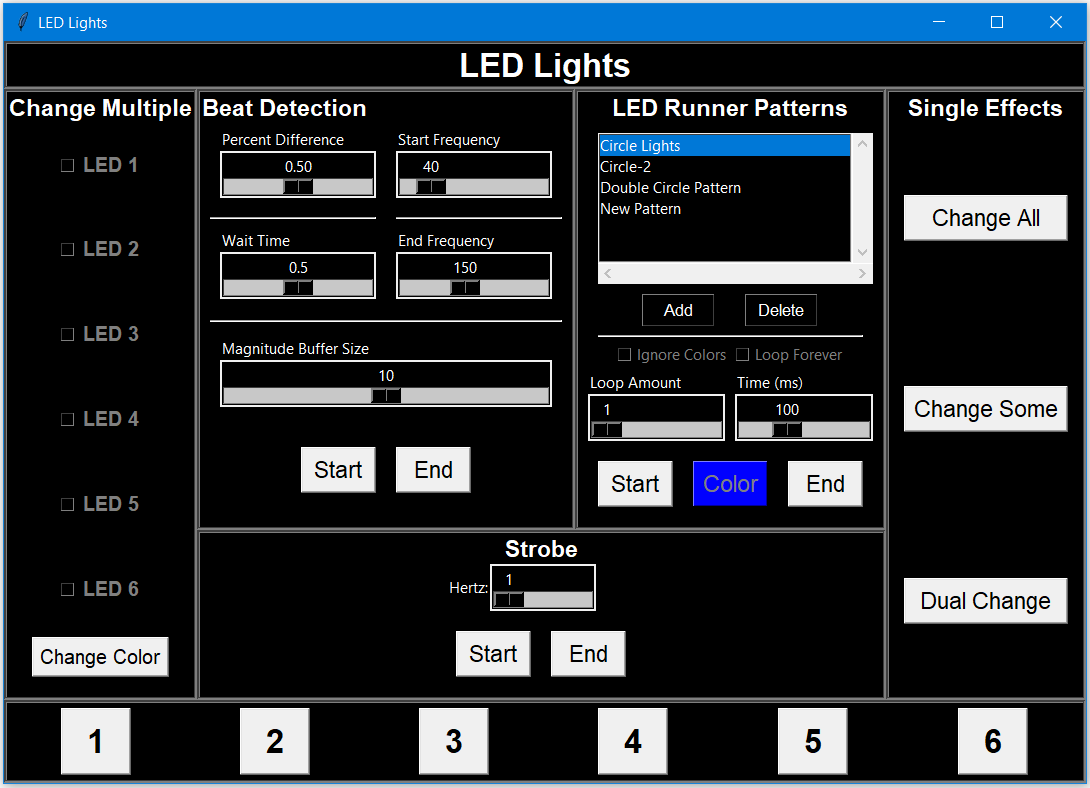
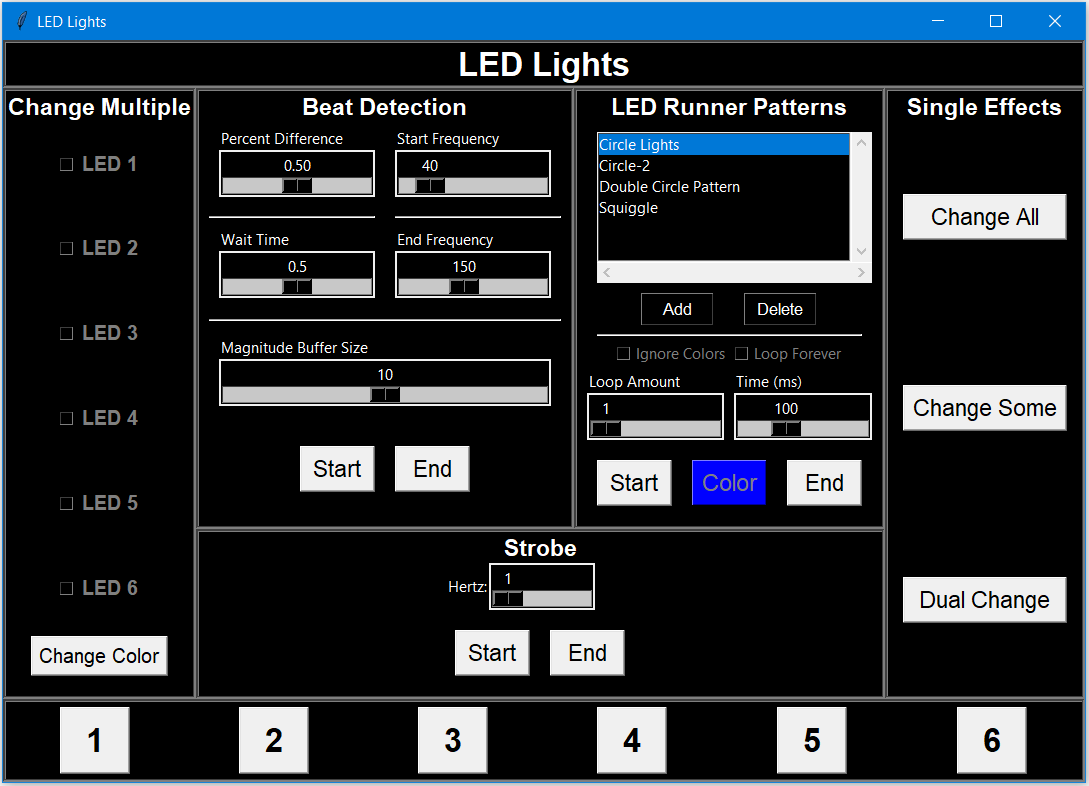
Updated readme and image

diff --git a/LEDControl/gui/mainWindow.py b/LEDControl/gui/mainWindow.py
@@ -124,7 +124,7 @@ class BeatDetect(tk.Frame):
         self.keep_amount = 10
         self.percent = .5
         self.wait_time = .5
-        ttk.Label(self, text='Beat Detection', style='Subtitle.TLabel').pack(fill=X)
+        ttk.Label(self, text='Beat Detection', style='Subtitle.TLabel').pack()
         # ------Setting up sliders---------
         top_group = ttk.Frame(self)
         top_group.pack(expand=YES, fill=BOTH)

diff --git a/README.md b/README.md
@@ -3,6 +3,8 @@ Code for controlling multiple RGB LED lights with an arduino and WS2803 chip
 
 A python GUI in LEDControl is used to send commands to an Arduino which simply fowards it along to the WS2803. It would be possible to control directly from the computer but some annoying connector would need to be made. The Arduino code is in ArduinoLEDs. The arduino pins 5 and 6 are used for clock and data respectivly. The arduino and WS2803 should be powered by the same external power supply.
 
+Included features are manually changing the color of one or more lights, having the lights change automatically due to beat detection in music, using a predefined pattern to light the LEDs in a specific order and time period, strobing the lights using their current colors, or selecting predefined effects. The predefined effects randomly change all lights to a specific color, randomly change 2/3 of the lights to a color and leave the rest off, or randomly change half of the lights to one color and half of the lights to another color.
+
 Images of the GUI and pattern editor:
 
 <img src="https://raw.githubusercontent.com/vinceshores/rgbLEDs/master/images/mainwindow.PNG" width="400"> <img src="https://raw.githubusercontent.com/vinceshores/rgbLEDs/master/images/patterneditor.PNG" width="300">
